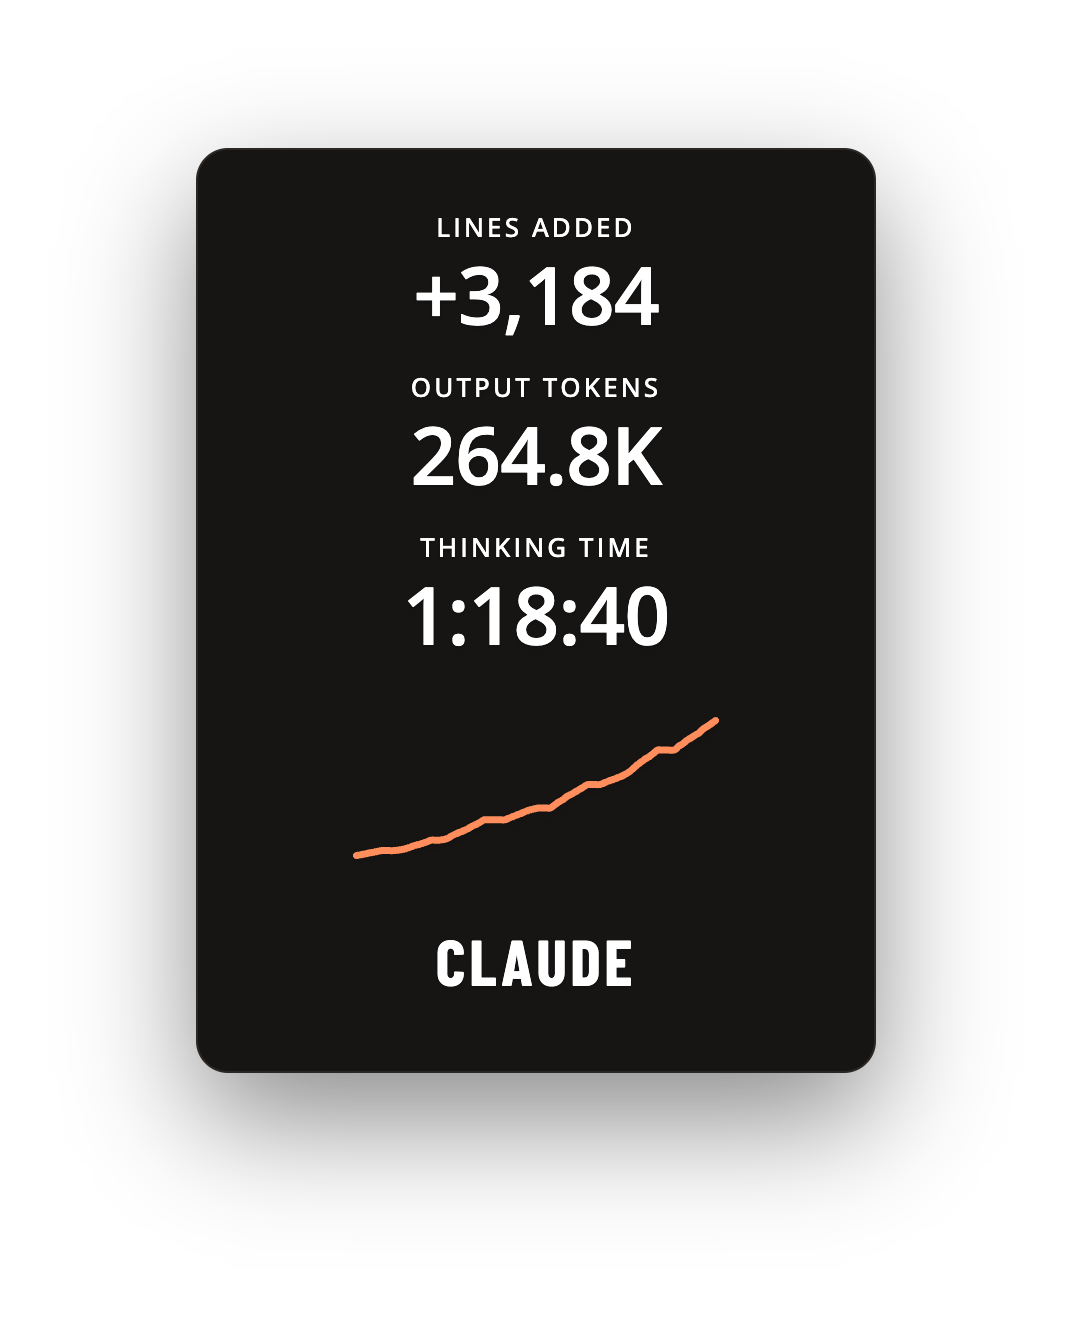
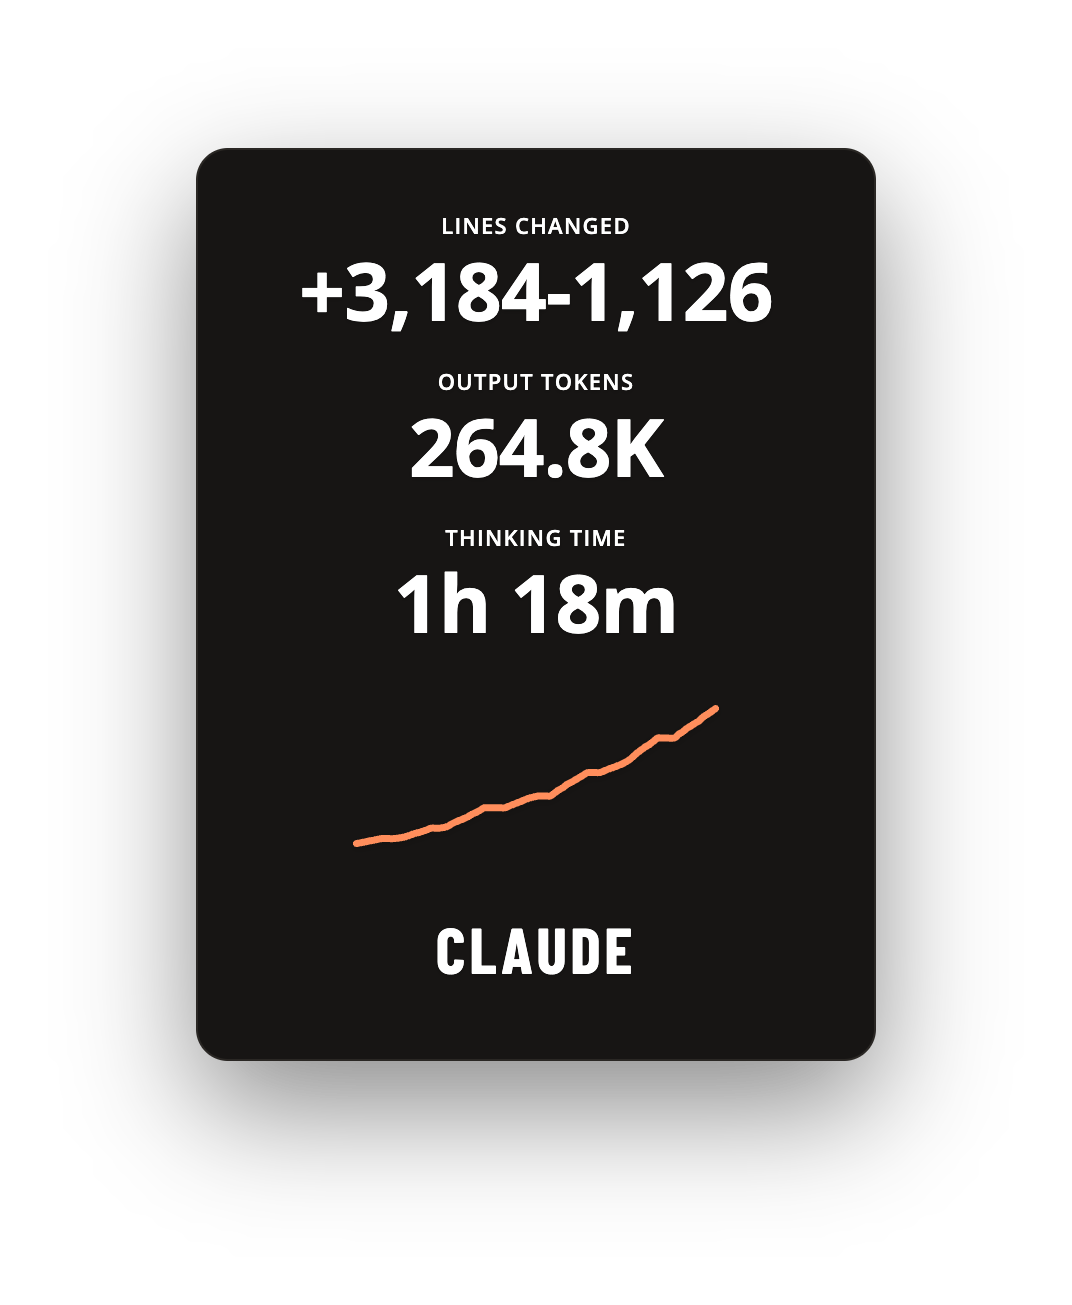
Refine story card metrics; bump to 0.6.5
- Metric text heavier (labels 600, values 700) for a bolder read.
- Smaller, tighter labels (11px, 0.06em tracking).
- Thinking time now unit-labelled: "Xm Xs", or "Xh Xm" past an hour.
- Lines metric shows the full diff (+added-removed) under a
  "Lines changed" label.
- Regenerated landing-page demo image to match.

diff --git a/overlay.py b/overlay.py
@@ -324,6 +324,19 @@ def fmt_duration(ms: float) -> str:
     return f"{m}:{sec:02d}"
 
 
+def fmt_thinking(ms: float) -> str:
+    """Unit-labelled duration for the thinking-time metric: `Xm Xs`, and
+    `Xh Xm` once it crosses an hour, so the unit is always explicit."""
+    s = int(ms / 1000)
+    h, rem = divmod(s, 3600)
+    m, sec = divmod(rem, 60)
+    if h:
+        return f"{h}h {m}m"
+    if m:
+        return f"{m}m {sec}s"
+    return f"{sec}s"
+
+
 # --------------------------------------------------------------------------
 # SVG route path (Catmull-Rom -> cubic Bezier, same as the canvas mockup)
 # --------------------------------------------------------------------------
@@ -386,7 +399,7 @@ def stat(value: str, label: str, *, label_first: bool = False) -> str:
 
 HEAD = f"""<meta charset="utf-8">
 <link rel="preconnect" href="https://fonts.googleapis.com">
-<link href="https://fonts.googleapis.com/css2?family=Barlow+Condensed:wght@700&family=Open+Sans:wght@500;600&display=swap" rel="stylesheet">
+<link href="https://fonts.googleapis.com/css2?family=Barlow+Condensed:wght@700&family=Open+Sans:wght@600;700&display=swap" rel="stylesheet">
 <style>
   :root {{ --accent: {ACCENT}; --fg: #FFFFFF; --fg-dim: #FFFFFF; --bg: #0F0E0D; --card: #171514; --stroke: #2A2724; }}
   * {{ margin: 0; box-sizing: border-box; }}
@@ -405,7 +418,7 @@ HEAD = f"""<meta charset="utf-8">
   .story {{ width: 340px; padding: 32px 28px 36px; gap: 14px; }}
   .story-stats {{ display: flex; flex-direction: column; gap: 20px; align-items: center; width: 100%; }}
   .story .stat {{ align-items: center; gap: 7px; }}
-  .story .label {{ font-size: 13px; color: var(--fg); }}
+  .story .label {{ font-size: 11px; letter-spacing: 0.06em; color: var(--fg); }}
   .story .value {{ font-size: 40px; }}
   .story .wordmark {{ font-size: 32px; }}
   .strip {{ width: 620px; flex-direction: column; align-items: stretch; gap: 8px; padding: 16px 24px 14px; border-radius: 12px; }}
@@ -426,17 +439,17 @@ HEAD = f"""<meta charset="utf-8">
   .stats-col {{ display: flex; flex-direction: column; gap: 20px; align-items: center; }}
   .stats-row {{ display: flex; gap: 28px; margin-left: auto; }}
   .stat {{ display: flex; flex-direction: column; gap: 0; white-space: nowrap; }}
-  .value {{ font-size: 24px; font-weight: 600; line-height: 1; letter-spacing: -0.01em; font-variant-numeric: tabular-nums; }}
-  .label {{ font-size: 10px; font-weight: 500; line-height: 1; letter-spacing: 0.12em; text-transform: uppercase; color: var(--fg); }}
+  .value {{ font-size: 24px; font-weight: 700; line-height: 1; letter-spacing: -0.01em; font-variant-numeric: tabular-nums; }}
+  .label {{ font-size: 10px; font-weight: 600; line-height: 1; letter-spacing: 0.12em; text-transform: uppercase; color: var(--fg); }}
 </style>"""
 
 
 def card_html(stats: dict, variant: str) -> str:
-    lines = f"+{stats['lines_added']:,}"
-    thinking = fmt_duration(stats["api_ms"])
+    lines = f"+{stats['lines_added']:,}-{stats['lines_removed']:,}"
+    thinking = fmt_thinking(stats["api_ms"])
     tokens = fmt_tokens(stats["output_tokens"])
     stats_html = (
-        stat(lines, "Lines added", label_first=(variant == "story"))
+        stat(lines, "Lines changed", label_first=(variant == "story"))
         + stat(tokens, "Output tokens", label_first=(variant == "story"))
         + stat(thinking, "Thinking time", label_first=(variant == "story"))
     )